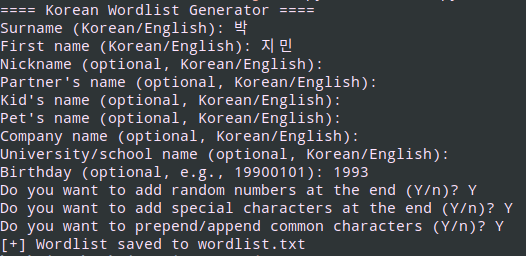
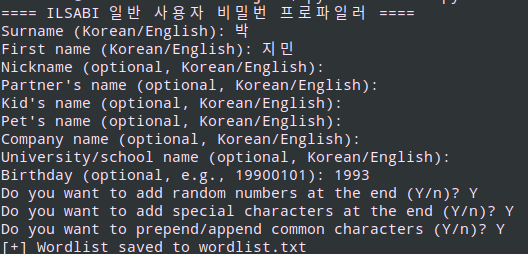
Fixed typos

Changed region(s): [[0.0, 0.0, 0.9734, 1.0], [0.73, 0.0276, 0.7909, 0.0827], [0.8213, 0.0, 0.8821, 0.0276]]

diff --git a/ilsabi.py b/ilsabi.py
@@ -250,7 +250,7 @@ def generate_wordlist(user_data):
 
 # Prompts to enter user information
 def interactive_input():
-    print("==== Korean Wordlist Generator ====")
+    print("==== ILSABI 일반 사용자 비밀번 프로파일러 ====")
     user_data = {}
 
     # Basic information

diff --git a/README.md b/README.md
@@ -1,4 +1,4 @@
-# ILSABI (일반적인 사용자 비밀번호 프로파일러)
+# ILSABI (일반 사용자 비밀번호 프로파일러)
 
 ILSABI is based on CUPP (Common User Passwords Profiler). CUPP is a tool that helps find weak and easily guessed passwords, but it falls short when it comes to profiling common Korean passwords.
 
